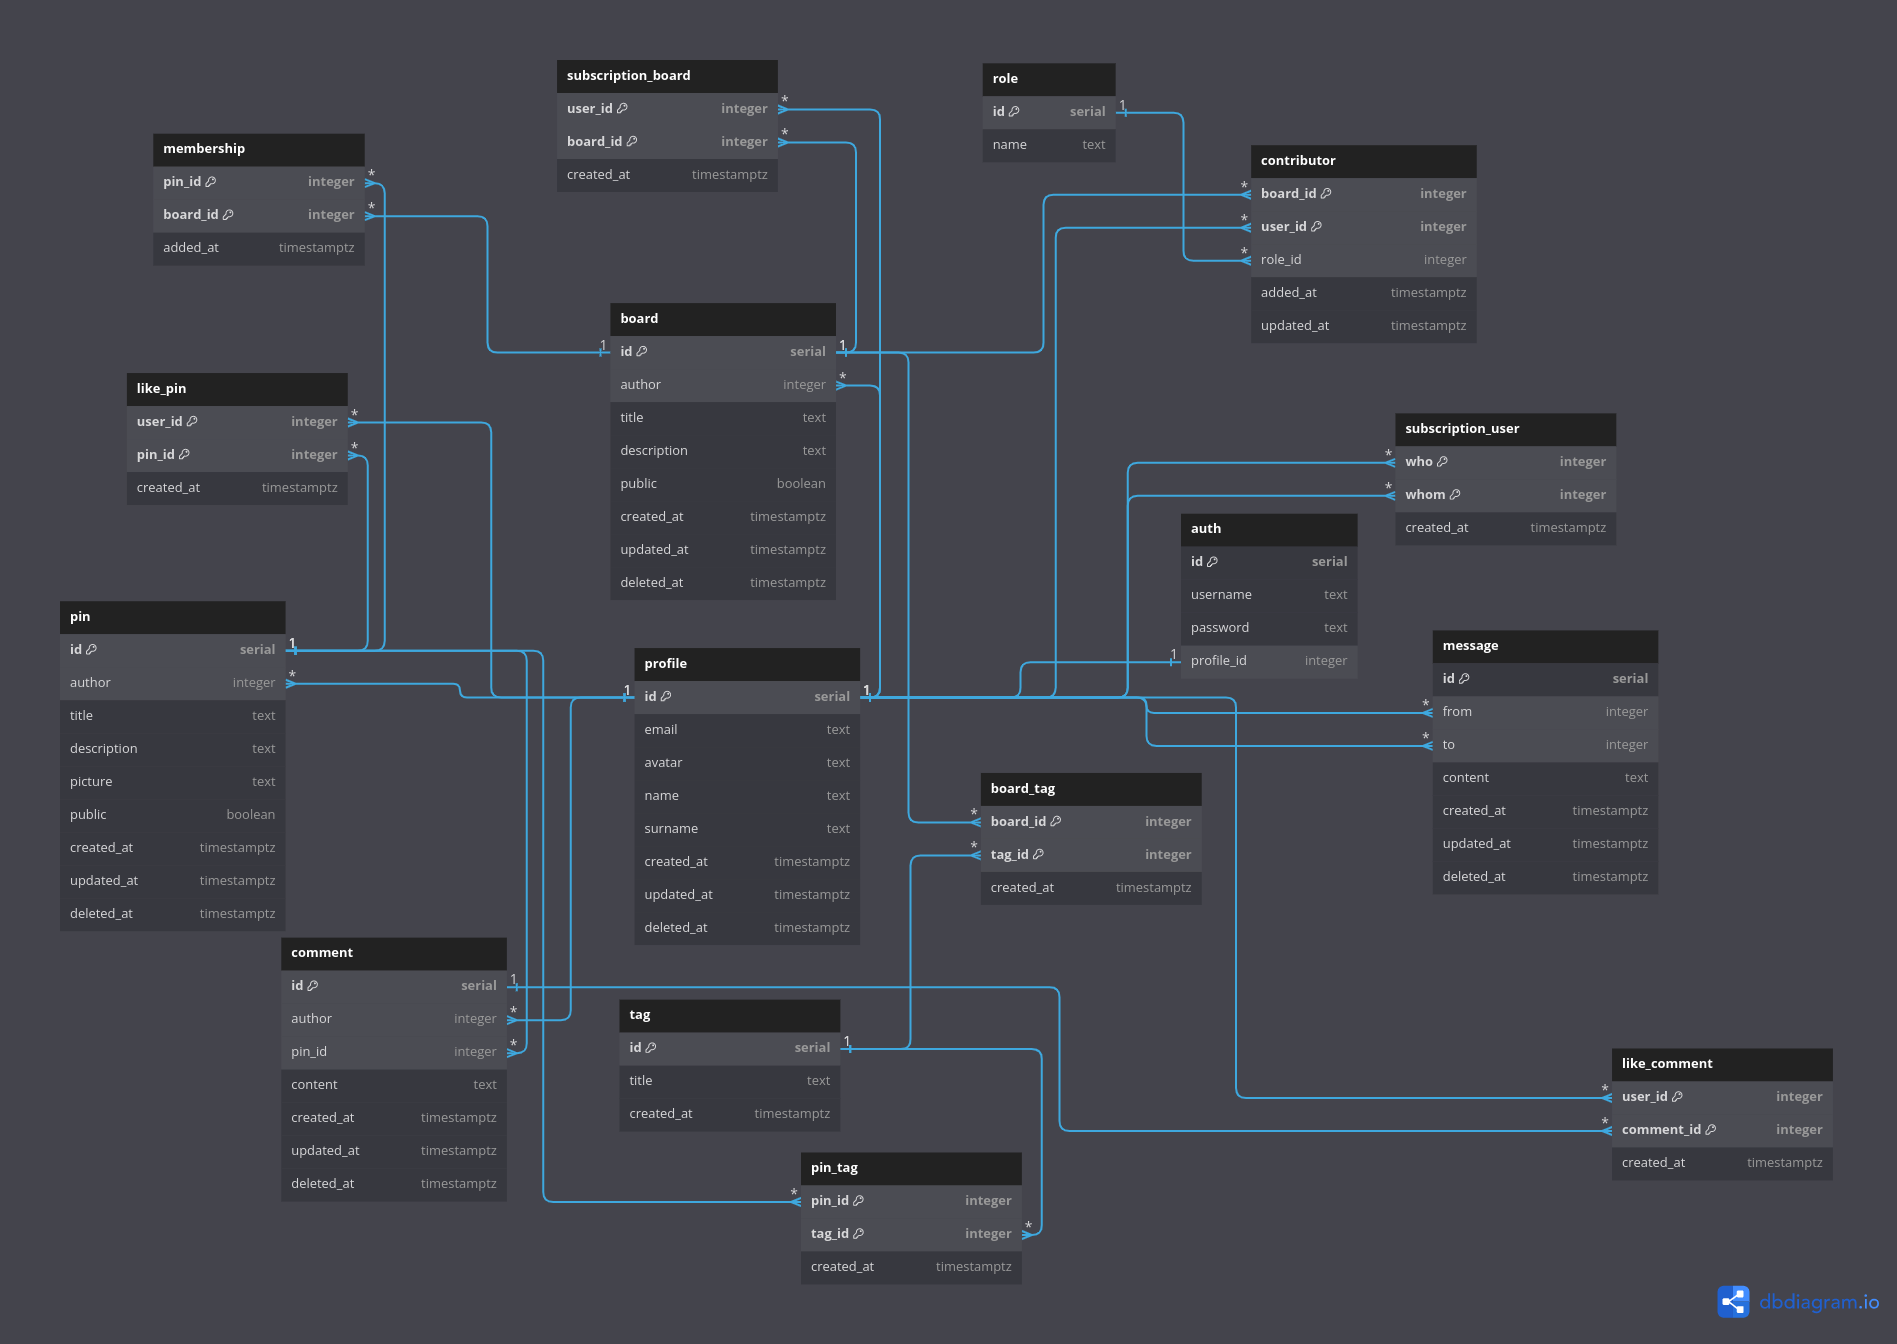
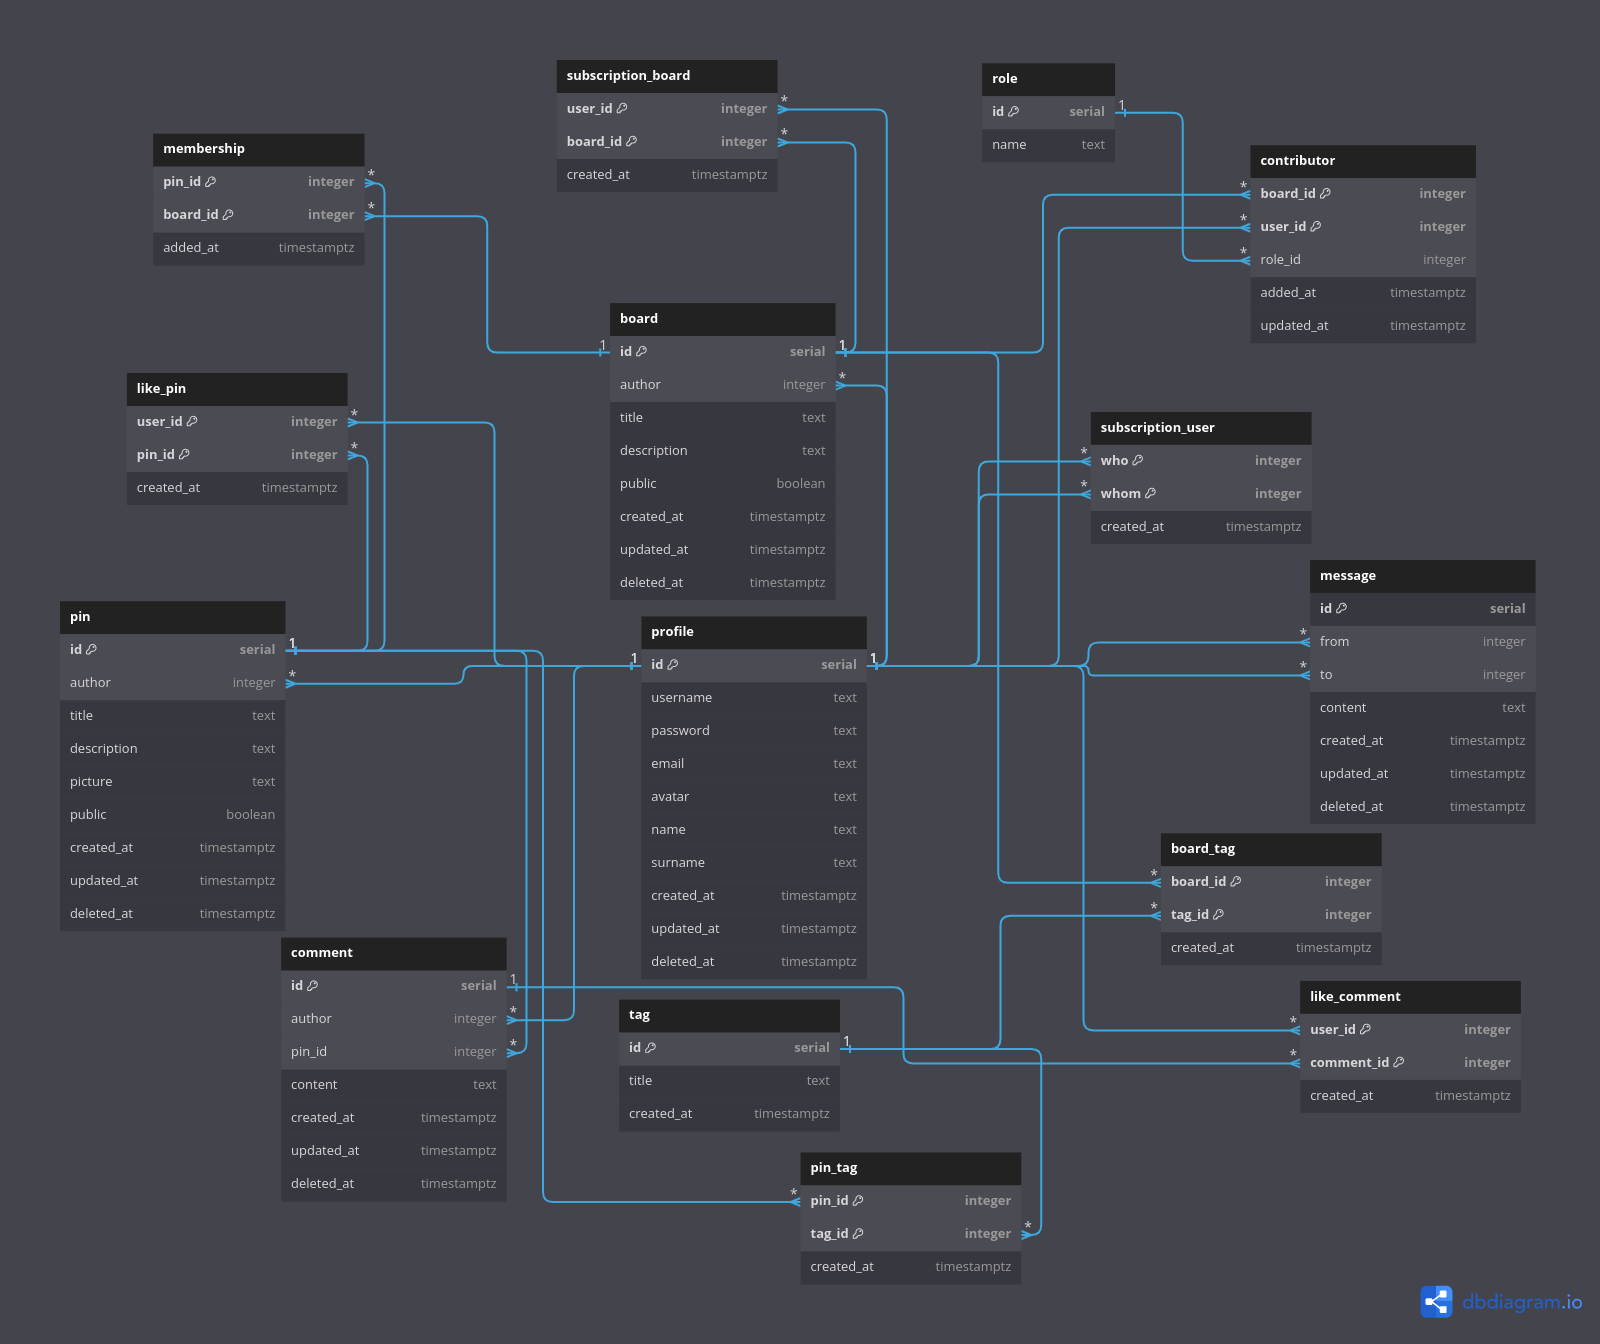
TP-aad update: merge relations auth and profile in profile

diff --git a/db/normalized/relations.md b/db/normalized/relations.md
@@ -2,9 +2,6 @@
 * ### profile
   Персональные данные пользователя.
 
-* ### auth
-  Авторизационные данные пользователя.
-
 * ### tag
   Множество всех возможных тегов, уникальных по title. Предполагается только пополнение данного множества.
 
@@ -39,13 +36,13 @@
 
 ## Описание функциональных зависимостей
 #### Relation [profile](#profile):
-{id, email} -> {avatar, name, surname, created_at, updated_at, deleted_at}
-
-#### Relation [auth](#auth):
-{id, profile_id} -> {username, password}
+{id} -> {username, email, password, avatar, name, surname, created_at, updated_at, deleted_at}
+{username} -> {id, email, password, avatar, name, surname, created_at, updated_at, deleted_at}
+{email} -> {id, username, password, avatar, name, surname, created_at, updated_at, deleted_at}
 
 #### Relation [tag](#tag):
-{id, title} -> {created_at}
+{id} -> {title, created_at}
+{title} -> {id, created_at}
 
 #### Relation [pin](#pin):
 {id} -> {author, title, description, picture, public, created_at, updated_at, deleted_at}
@@ -69,7 +66,8 @@
 {board_id, pin_id} -> {added_at}
 
 #### Relation [role](#role):
-{id, name} -> {}
+{id} -> {name}
+{name} -> {id}
 
 #### Relation [contributor](#contributor):
 {user_id, board_id} -> {role_id, added_at, updated_at}
